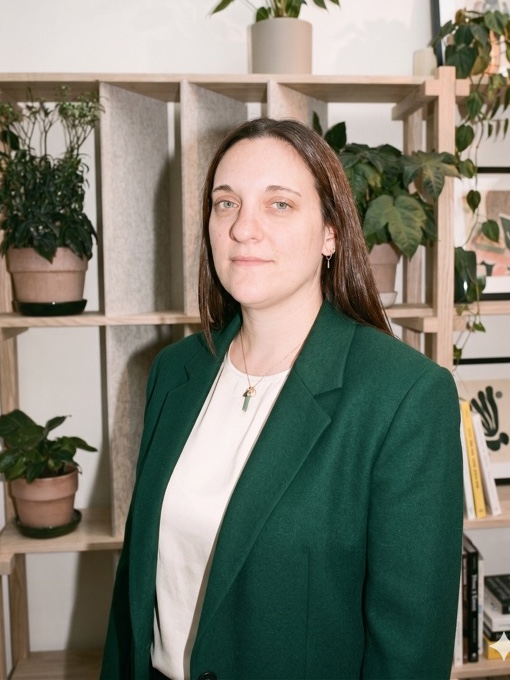
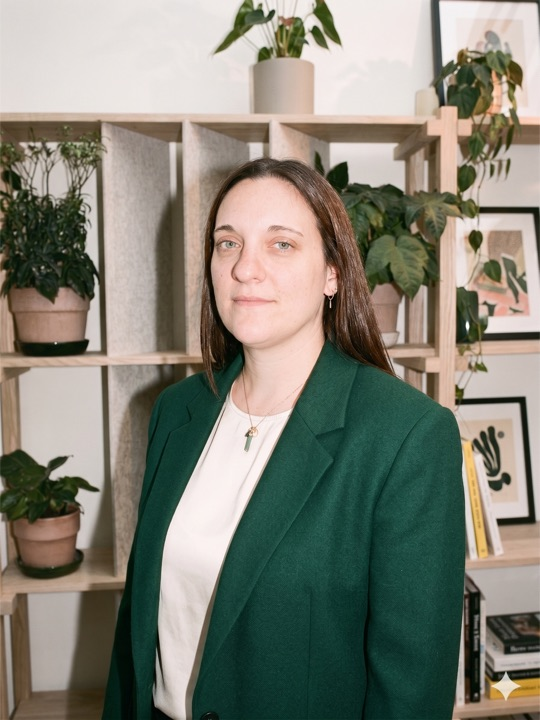
Photos équipe : passe en HD et reflète l'organigramme
- Remplace toutes les images cropped 480px par les originaux HD
  (jusqu'à 2528px) directement servis depuis les sources Gemini.
  Les extensions varient (.jpg ou .png) selon l'export disponible.
  Dié et Claire restent sur la cropped car leur original est en
  paysage et inutilisable en cadrage portrait.

- Galerie home recomposée selon l'organigramme : 3 Direction
  (Romain, Émile, Anne) + 2 RPO (Thomas, Juliette) + 2 Tech
  (Théo, Hugo) + 3 Business (Laura, Claire, Zaïa) — pas de
  membres support.

diff --git a/equipe.html b/equipe.html
@@ -115,24 +115,24 @@
 
   .photo-romain    { background-image: url('assets/team/romain-pichou.jpg'); }
   .photo-emile     { background-image: url('assets/team/emile-pennes.jpg'); }
-  .photo-guillaume { background-image: url('assets/team/guillaume-renard.jpg'); }
-  .photo-tony      { background-image: url('assets/team/tony-beaugez.jpg'); }
-  .photo-louis     { background-image: url('assets/team/louis-fitamant.jpg'); }
-  .photo-anne      { background-image: url('assets/team/anne-delarue.jpg'); }
-  .photo-thomas    { background-image: url('assets/team/thomas-laigo.jpg'); }
+  .photo-guillaume { background-image: url('assets/team/guillaume-renard.png'); }
+  .photo-tony      { background-image: url('assets/team/tony-beaugez.png'); }
+  .photo-louis     { background-image: url('assets/team/louis-fitamant.png'); }
+  .photo-anne      { background-image: url('assets/team/anne-delarue.png'); }
+  .photo-thomas    { background-image: url('assets/team/thomas-laigo.png'); }
   .photo-die       { background-image: url('assets/team/die-astou-dioume.jpg'); }
-  .photo-juliette  { background-image: url('assets/team/juliette-fabre.jpg'); }
+  .photo-juliette  { background-image: url('assets/team/juliette-fabre.png'); }
   .photo-lauren    { background-image: url('assets/team/lauren-pointon.jpg'); }
   .photo-theo      { background-image: url('assets/team/theo-grandperrin.jpg'); }
   .photo-nicolas   { background-image: url('assets/team/nicolas-magne.jpg'); }
-  .photo-hugo      { background-image: url('assets/team/hugo-merdrignac.jpg'); }
-  .photo-zaia      { background-image: url('assets/team/zaia-bouchachia.jpg'); }
-  .photo-laura     { background-image: url('assets/team/laura-geneuil.jpg'); }
+  .photo-hugo      { background-image: url('assets/team/hugo-merdrignac.png'); }
+  .photo-zaia      { background-image: url('assets/team/zaia-bouchachia.png'); }
+  .photo-laura     { background-image: url('assets/team/laura-geneuil.png'); }
   .photo-claire    { background-image: url('assets/team/claire-hubert.jpg'); }
-  .photo-jonathan  { background-image: url('assets/team/jonathan-banigo.jpg'); }
-  .photo-dylan     { background-image: url('assets/team/dylan-khoury.jpg'); }
-  .photo-terry     { background-image: url('assets/team/terry-raimondo.jpg'); }
-  .photo-clotilde  { background-image: url('assets/team/clotilde-chappe.jpg'); }
+  .photo-jonathan  { background-image: url('assets/team/jonathan-banigo.png'); }
+  .photo-dylan     { background-image: url('assets/team/dylan-khoury.png'); }
+  .photo-terry     { background-image: url('assets/team/terry-raimondo.png'); }
+  .photo-clotilde  { background-image: url('assets/team/clotilde-chappe.png'); }
 
   @media (max-width: 800px) {
     .equipe-title-row { flex-direction: column; align-items: flex-start; }

diff --git a/index.html b/index.html
@@ -57,16 +57,17 @@
     .grid-images .tile:nth-child(9) { display: block; }
     .grid-images .tile:nth-child(10) { display: none; }
   }
+  /* 3 Direction + 2 RPO + 2 Tech + 3 Business — pas de membres support */
   .tile-1  { background-image: url('assets/team/romain-pichou.jpg'); }
   .tile-2  { background-image: url('assets/team/emile-pennes.jpg'); }
-  .tile-3  { background-image: url('assets/team/theo-grandperrin.jpg'); }
-  .tile-4  { background-image: url('assets/team/anne-delarue.jpg'); }
-  .tile-5  { background-image: url('assets/team/hugo-merdrignac.jpg'); }
-  .tile-6  { background-image: url('assets/team/juliette-fabre.jpg'); }
-  .tile-7  { background-image: url('assets/team/laura-geneuil.jpg'); }
-  .tile-8  { background-image: url('assets/team/guillaume-renard.jpg'); }
-  .tile-9  { background-image: url('assets/team/louis-fitamant.jpg'); }
-  .tile-10 { background-image: url('assets/team/die-astou-dioume.jpg'); }
+  .tile-3  { background-image: url('assets/team/anne-delarue.png'); }
+  .tile-4  { background-image: url('assets/team/thomas-laigo.png'); }
+  .tile-5  { background-image: url('assets/team/juliette-fabre.png'); }
+  .tile-6  { background-image: url('assets/team/theo-grandperrin.jpg'); }
+  .tile-7  { background-image: url('assets/team/hugo-merdrignac.png'); }
+  .tile-8  { background-image: url('assets/team/laura-geneuil.png'); }
+  .tile-9  { background-image: url('assets/team/claire-hubert.jpg'); }
+  .tile-10 { background-image: url('assets/team/zaia-bouchachia.png'); }
 
   /* ---------- Cases ---------- */
   .cases {

diff --git a/solutions-renfort.html b/solutions-renfort.html
@@ -15,12 +15,12 @@
 <style>
   .photo-romain { background-image: url('assets/team/romain-pichou.jpg'); }
   .photo-emile  { background-image: url('assets/team/emile-pennes.jpg'); }
-  .photo-tony   { background-image: url('assets/team/tony-beaugez.jpg'); }
+  .photo-tony   { background-image: url('assets/team/tony-beaugez.png'); }
   .photo-claire { background-image: url('assets/team/claire-hubert.jpg'); }
-  .photo-anne   { background-image: url('assets/team/anne-delarue.jpg'); }
-  .photo-thomas { background-image: url('assets/team/thomas-laigo.jpg'); }
+  .photo-anne   { background-image: url('assets/team/anne-delarue.png'); }
+  .photo-thomas { background-image: url('assets/team/thomas-laigo.png'); }
   .photo-lauren { background-image: url('assets/team/lauren-pointon.jpg'); }
-  .photo-terry  { background-image: url('assets/team/terry-raimondo.jpg'); }
+  .photo-terry  { background-image: url('assets/team/terry-raimondo.png'); }
 </style>
 </head>
 <body>

diff --git a/solutions.html b/solutions.html
@@ -15,9 +15,9 @@
 <style>
   .photo-romain { background-image: url('assets/team/romain-pichou.jpg'); }
   .photo-emile  { background-image: url('assets/team/emile-pennes.jpg'); }
-  .photo-tony   { background-image: url('assets/team/tony-beaugez.jpg'); }
+  .photo-tony   { background-image: url('assets/team/tony-beaugez.png'); }
   .photo-claire { background-image: url('assets/team/claire-hubert.jpg'); }
-  .photo-hugo   { background-image: url('assets/team/hugo-merdrignac.jpg'); }
+  .photo-hugo   { background-image: url('assets/team/hugo-merdrignac.png'); }
 </style>
 </head>
 <body>
